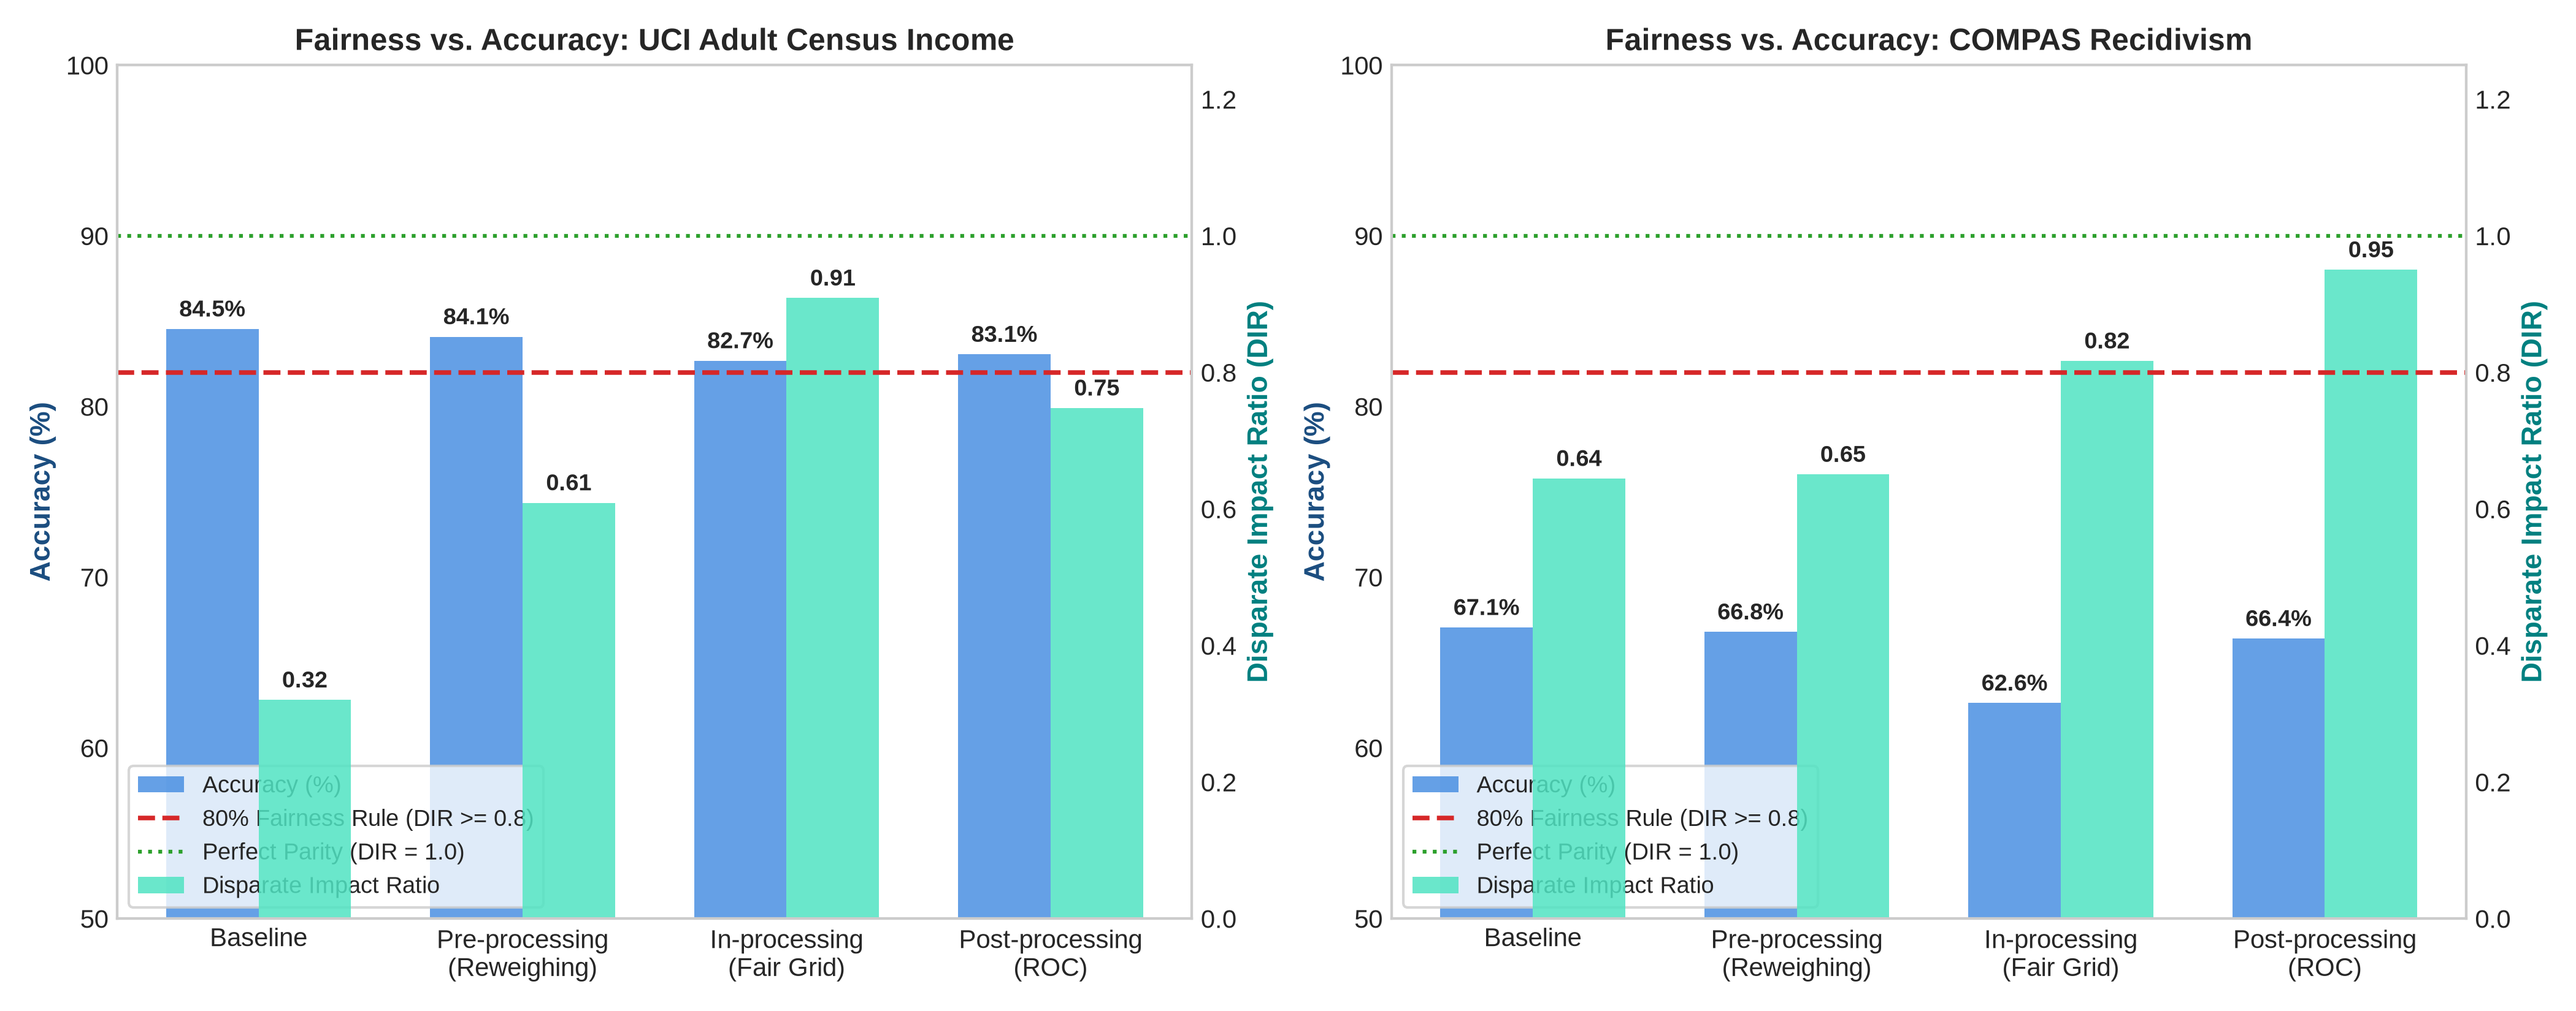
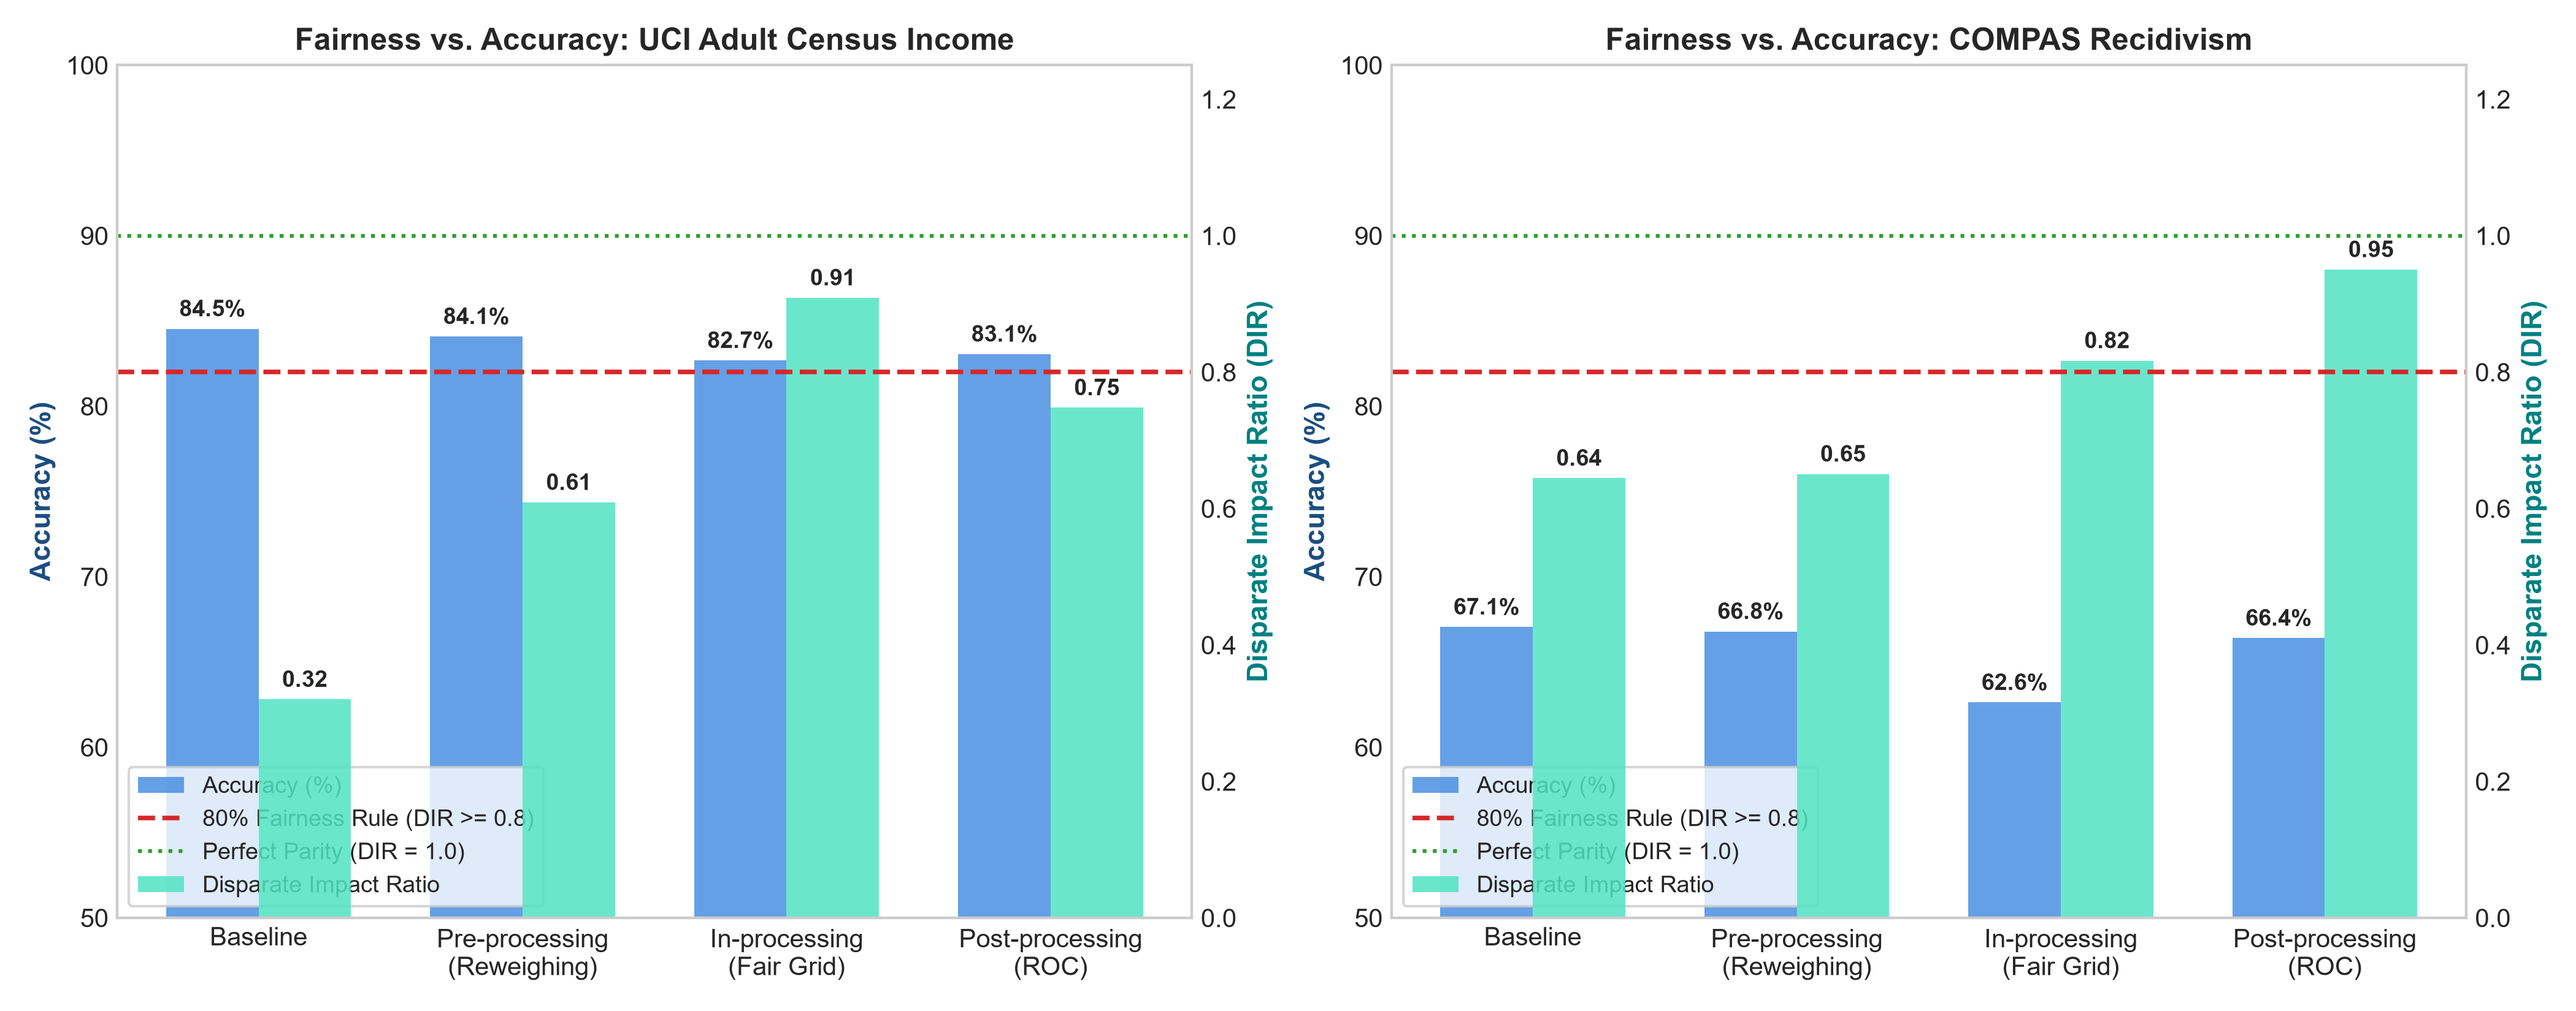
Regenerate benchmark figures from corrected results

diff --git a/TECHNICAL_REPORT.md b/TECHNICAL_REPORT.md
@@ -58,13 +58,13 @@ The committed raw JSON reports these Spark runtimes. They depend on machine conf
 | 500,000 | 7.611 | 27.587 | 7.796 | Skipped; estimated OOM entry |
 | 1,000,000 | 8.382 | 30.683 | 9.028 | Skipped; estimated OOM entry |
 
-Spark timings are not monotonic at smaller sizes, consistent with startup, scheduling, caching, and measurement noise. The benchmark script bypasses the laptop baseline above 250,000 rows and writes estimated memory/OOM labels. The README table and notebook narrative now reflect the raw JSON values. Regenerate the scalability plot from the same JSON before presenting it.
+Spark timings are not monotonic at smaller sizes, consistent with startup, scheduling, caching, and measurement noise. The benchmark script bypasses the laptop baseline above 250,000 rows and writes estimated memory/OOM labels. The README table and notebook narrative now reflect the raw JSON values. The scalability plot was regenerated from the same JSON before submission.
 
 ### Limitations and recommendations
 
 - Resolve the course data policy for public person-level records; use fully synthetic data if required.
 - Rerun from a clean environment and record hardware, Spark configuration, executor and partition counts, source versions, and run date.
-- Regenerate the scalability plot from the committed JSON. Label skipped laptop cases as estimates, or measure them under an explicit memory cap.
+- Label skipped laptop cases as estimates, or measure them under an explicit memory cap.
 - Describe row replication as a compute stress test and avoid presenting it as evidence of fairness generalization to larger populations.
 - Keep train, validation, and test data separate for tuning and final evaluation. Report group counts and uncertainty where feasible.
 - Treat fairness metrics as diagnostic evidence and document harms and trade-offs relevant to any intended deployment.

diff --git a/RESULTS_CORRECTIONS.md b/RESULTS_CORRECTIONS.md
@@ -10,7 +10,7 @@ The README scalability table and results notebook have been updated to match the
 | 500,000 | 7.611 | 27.587 | 7.796 | **not run**; JSON records estimated 400 MB and an OOM status |
 | 1,000,000 | 8.382 | 30.683 | 9.028 | **not run**; JSON records estimated 800 MB and an OOM status |
 
-These values are the contents of the committed raw JSON, not a fresh rerun. The script intentionally bypasses the laptop baseline above 250,000 rows, so call those entries estimates or rerun under a declared memory cap and report the observed outcome. The checked-in scalability PNG predates these corrections; regenerate it with `python plot_results.py` before presenting the plot.
+These values are the contents of the committed raw JSON, not a fresh rerun. The script intentionally bypasses the laptop baseline above 250,000 rows, so call those entries estimates or rerun under a declared memory cap and report the observed outcome. The scalability and fairness-accuracy PNGs have now been regenerated from the committed JSON with `python plot_results.py`.
 
 The input scaling procedure samples the dataset for smaller sizes and repeats the source dataframe for larger sizes. State this clearly in the report and plots. Repeated rows can characterize pipeline execution cost but cannot support a claim that fairness outcomes generalize to a larger independent population.
 

diff --git a/README.md b/README.md
@@ -173,7 +173,7 @@ Runtime and throughput scaling evaluated on distributed Spark vs. single-node la
 
 ### Scalability Curves (Runtime & Throughput vs. Data Size $N$)
 
-Regenerate figures from the committed JSON before presenting them: `python plot_results.py`. The current checked-in scalability PNG predates the corrected JSON timings and laptop measurement notes.
+The checked-in scalability and fairness-accuracy figures were regenerated from the committed JSON with `python plot_results.py`. Rerun that command after updating the result files.
 
 ![Scalability Curves](output/scalability_curves.png)
 
